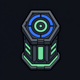
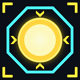
Make the OFF node the loudest W1 target
Gold bullseye + cyan hex at 40x40 so it beats red drones. Labels stay.

diff --git a/game/STYLE.md b/game/STYLE.md
@@ -1,27 +1,25 @@
 # Style bible — Robot Puzzle Shooter
 
-Art owns this file and `game/assets/`. Greybox shapes stay until Game Dev hooks the PNGs. **No new mechanics.**
+Art owns this file and `game/assets/`. CoS already `drawImage`s the three PNGs. **No new mechanics. No `game/src`.**
 
-Arena: dark floor `#141820`, mint `#7DFFB3`, drone red `#D45B5B`, node-off blue `#4D8DFF`. Brotato-readable top-down. One robot, cheap drones, glowing nodes.
+Arena: dark floor `#141820`. Mint `#7DFFB3` is ON. Drone red `#D45B5B` is the threat. **OFF node is the loudest thing in wave 1** — gold/white bullseye + cyan hex, hotter than the reds.
 
-## Must-have (this PR)
+## Must-have (PR #7)
 
-| File | Is | Draw size in `game.js` | PNG |
+| File | Is | Draw size | PNG |
 | --- | --- | --- | --- |
-| `assets/player.png` | Scrap robot (cream hull, mint visor, treads) | 28×28 | 56×56 |
-| `assets/drone.png` | Cheap red chaser (yellow eye) | 22×22 | 44×44 |
-| `assets/node.png` | Puzzle **NODE** to shoot ON — hexagonal pylon + bullseye. Not a boat. Not a relic. | 40×40 | 80×80 |
+| `assets/player.png` | Scrap robot (cream hull, mint visor) | 28×28 | 56×56 |
+| `assets/drone.png` | Cheap red chaser | 22×22 | 44×44 |
+| `assets/node.png` | **OFF NODE** targeting bullseye (not a boat, not a relic). Designed to win the 40×40 read against drones. | 40×40 | 80×80 |
 
-PNGs are RGB on `#141820`. Missing files must not crash — greybox rects remain valid.
+Keep NODE / SHOOT / YOU labels in the greybox until Playtest says silhouettes are enough.
+
+PNGs are RGB on `#141820`. Missing files must not crash.
 
 ## Optional later
 
 Projectile, upgrade-card chrome. HUD stays HTML.
 
-## Hook (Game Dev, not this PR)
-
-`drawImage` the three files over the current `fill()` / `drawNode()` rects. Keep the NODE / SHOOT / YOU labels until Playtest says silhouettes are enough. Do not change waves, upgrades, or verbs.
-
 ## Dead
 
-TAKE art (PR #3): relic, guard, shadow, door, cone. Do not merge that look into this arena.
+TAKE art (PR #3). Do not merge that look. No second sprite PR.

diff --git a/game/assets/README.md b/game/assets/README.md
@@ -6,6 +6,6 @@ Drop-ins for the RPS greybox. Game runs without them.
 | --- | --- |
 | `player.png` | You — scrap robot |
 | `drone.png` | Wave chaser |
-| `node.png` | Puzzle node to shoot ON |
+| `node.png` | OFF node — gold bullseye + cyan hex. Loudest object at 40×40. |
 
 Chroma / backplate: `#141820`.
